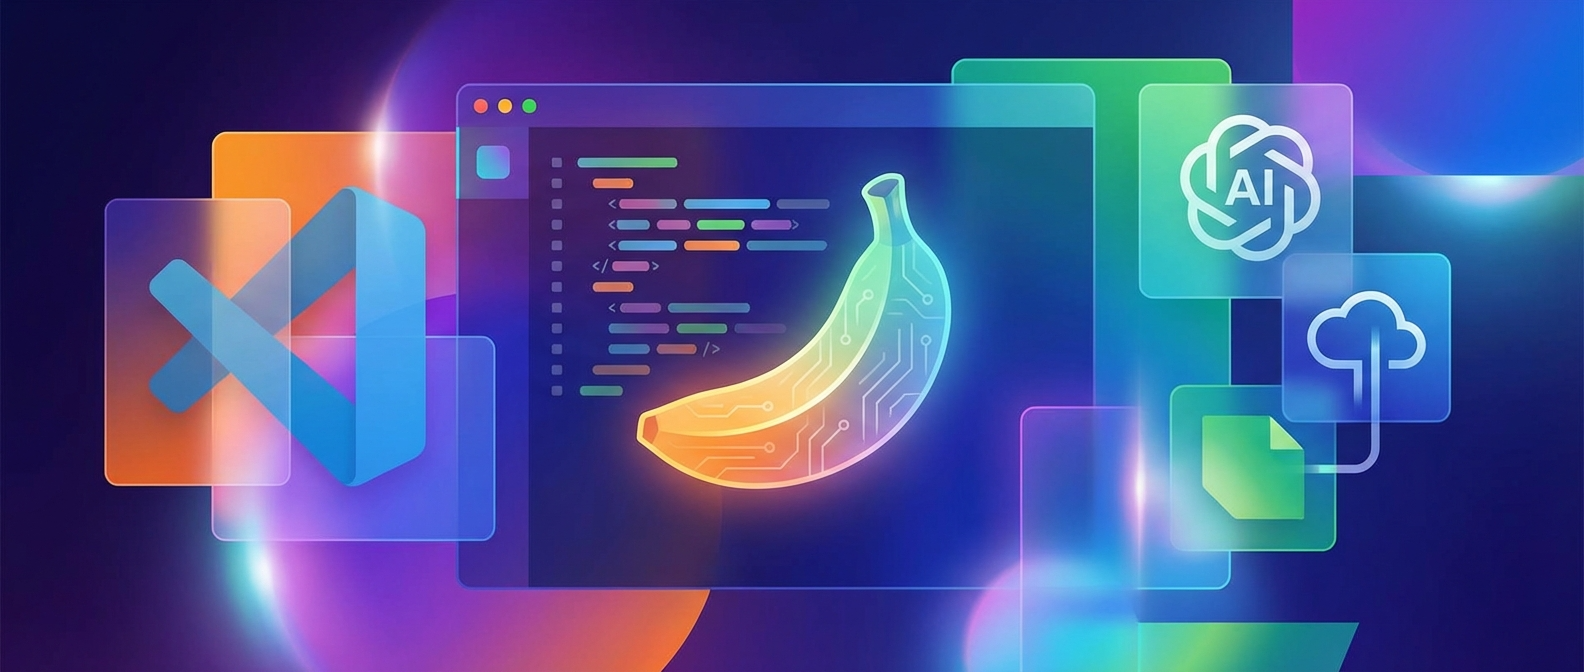
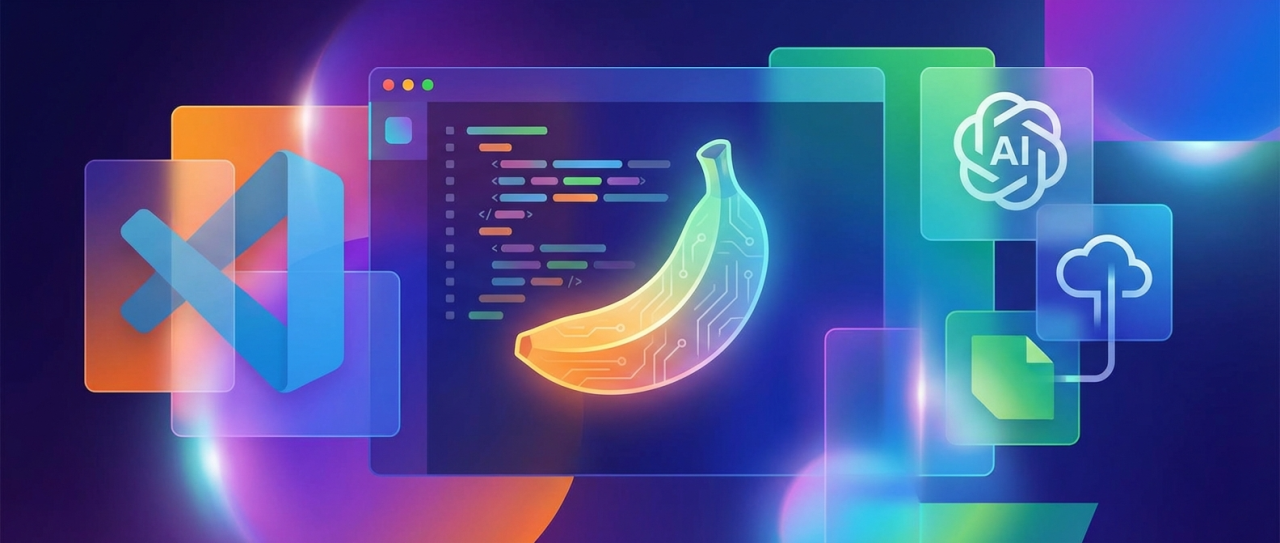
chore: 調整忽略清單並完善文件
- .vscodeignore 新增 .github、AGENTS.md、banner.png、CHANGELOG.md 以優化發佈包
- AGENTS.md 補充新的驗證步驟
- README.md 調整橫幅圖片為 JPG
- 新增 banner.jpg，更新 banner.png

diff --git a/AGENTS.md b/AGENTS.md
@@ -29,6 +29,7 @@
 - Test files: `tests/<module>.test.ts`.
 - Add tests for every behavior change in `src/services/*` and pure helper logic.
 - Run `npm run typecheck && npm run test` before opening a PR.
+- Validate by running `npm run typecheck`, `npm run test`, `npm run build`, and `npm run package:vsix`.
 
 ## Commit & Pull Request Guidelines
 - Follow Conventional Commit style seen in history: `feat: ...`, `feat(scope): ...`, `fix: ...`, `docs: ...`.

diff --git a/README.md b/README.md
@@ -3,7 +3,7 @@
 A VS Code extension that generates images with Gemini API.
 It can build article-cover prompts through the GitHub Copilot Language Model API, then generate and open the output image in VS Code.
 
-![Banner](https://vscode-nanobanana.gh.miniasp.com/banner.png)
+![Banner](https://vscode-nanobanana.gh.miniasp.com/banner.jpg)
 
 ## Features
 
